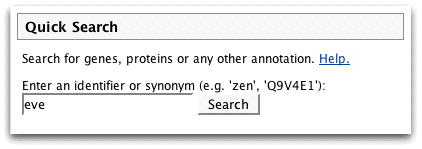
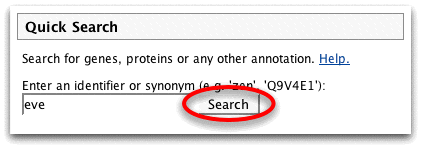
Updated tour text and images.

Changed region(s): [[0.4005, 0.5638, 0.6777, 0.8859]]

diff --git a/www/flymine/site/tour/tour_1.html b/www/flymine/site/tour/tour_1.html
@@ -45,18 +45,31 @@ Report Pages
       <div style="padding-top: 20px" class="content">
         <div onclick="window.location.replace('tour_2.html');">
 
+
 <p>FlyMine is a data warehouse that integrates many diverse biological data sets.
 The main focus is <i>Drosophila</i> and <i>Anopheles</i> genomics and proteomics.
 By integrating such data into one place it is possible to construct queries across
 domains of biological knowledge.</p>
 
-<b>See a list of all the data sources on the FlyMine home page:</b>
 
+
+<table class="inlinetable">
+<tr>
+<td valign="top" width="60%">
+<b>See a list of all the data sources from the FlyMine home page:</b>
+</td>
+<td padding="5px" valign="top">
 <img alt="[Release info]" src="release_info.png"/>
+</td>
+</tr>
+</table>
 
 <p>The FlyMine user interface is designed to go beyond simply looking
 up an identifier and viewing a report page.  This quick tour will
 introduce some of the features:</p>
+
+<p><b>Quick Search</b> is available just like on other sites, type in
+an identifier to see a report page.</p>
 
 <p><b>Template queries</b> are 'canned' queries that provide a simple
 form to perform a specific task.</p>
@@ -64,14 +77,11 @@ form to perform a specific task.</p>
 <p><b>Bags</b> let you operate on whole lists of data at once.  You can
 upload your own lists or save them from results tables.<p>
 
-<p><b>Quick Search</b> is available just like on other sites, type in
-an identifier to see a report page.</p>
-
-<p><b>A QueryBuilder</b> lets you create your own custom queries and
+<p><b>The QueryBuilder</b> lets you create your own custom queries and
 edit existing templates.</p>
 
 <p><b>Aspects</b> are a way to explore the data and template queries
-for a particular area of biology - for example Comparive Genomics or
+for a particular area of biology - for example Comparative Genomics or
 Protein Interactions.</p>
 
 <p><b>MyMine</b> lets you create an account to save your own queries

diff --git a/www/flymine/site/tour/tour_8.html b/www/flymine/site/tour/tour_8.html
@@ -49,7 +49,7 @@ Bag details page
 If some identifiers don't produce an exact match a confirmation page lets you resolve any issues.  Here, two genes were found by synonyms and a protein identifier has been converted to the corresponding gene.  You can check through each issue or just add all the matches to your bag.
 </p>
 
-<p><b>Click 'Add all' to include all issues in the bag.</b></p>
+<p><b>Click 'Add all' to include all suggested genes to the bag.</b></p>
 
 <img alt="[Add these bag]"  src="bag_confirm_add.png"/>
 

diff --git a/www/flymine/site/tour/tour_9.html b/www/flymine/site/tour/tour_9.html
@@ -60,7 +60,7 @@ The bag details is a great way to find out more about a list of genes.  A number
 Template queries have been executed on the whole bag, just like on the gene report page.  This is a simple way to retrieve further information about the entire list.  For example, you could retrieve all the exons or protein sequences.
 </p>
 
-[bag templates image]
+<img alt="[Bag templates]"  src="bag_templates.png"/>
 
 
         </div>

diff --git a/www/flymine/site/tour/tour_6.html b/www/flymine/site/tour/tour_6.html
@@ -66,7 +66,7 @@ Bag Upload
 
 <p><b>Click the <img alt="[red cross]"  src="cross.gif"/> buttons to remove the last three columns from the query - the three that mention GO annotation.</b></p>
 
-[remove boxes image?]
+<img alt="[remove columns]"  src="remove_columns.png"/>
 
 <p><b>Click 'Show results' to run the query.</b></p>
 

diff --git a/www/flymine/site/tour/tour_11.html b/www/flymine/site/tour/tour_11.html
@@ -53,7 +53,9 @@ Use bags in template queries
 
 <img alt="[MyMine tabs]"  src="mymine_tabs.png"/>
 
+<p/>
 
+<p>Please contact us if you have any questions or suggestions: <b>support@flymine.org</b></p>
 
         </div>
       </div>

diff --git a/www/flymine/site/style/branding.css b/www/flymine/site/style/branding.css
@@ -71,8 +71,12 @@ table.dbstats th {
 
 .tour .content {
   padding: 20px;
-  font-size: 130%;
+  font-size: 120%;
   margin: 30px
   padding: 30px
+}
+
+.tour .inlinetable {
+  font-size: 100%;
 }
 
